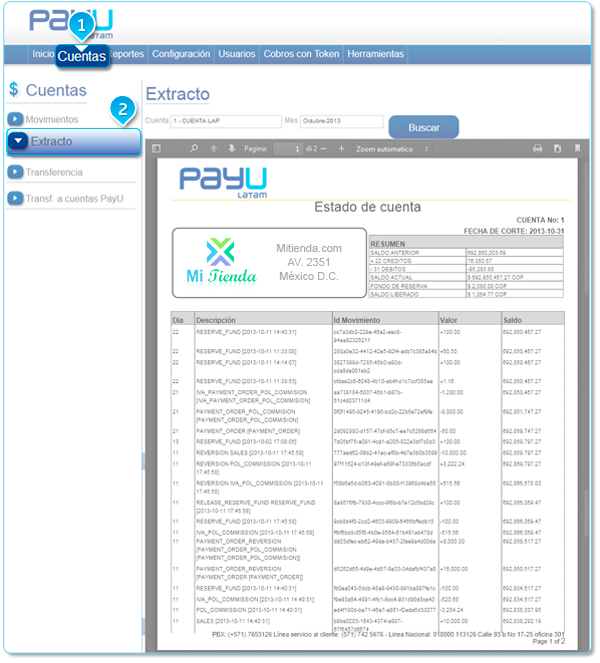
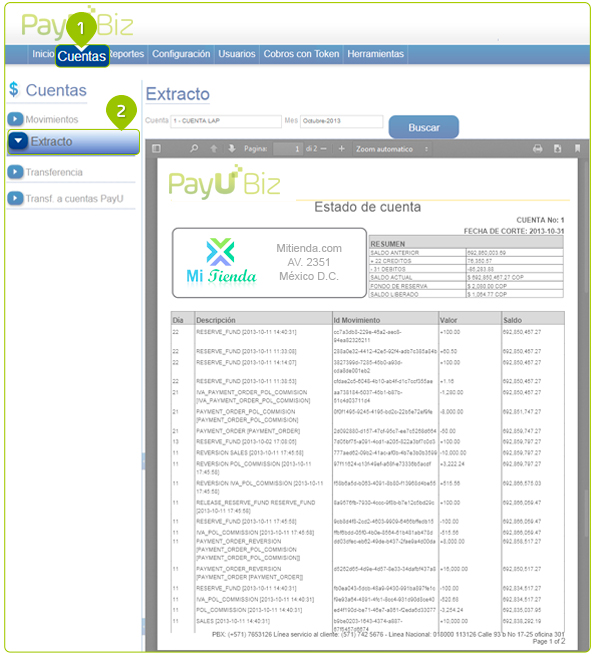
Secure images

Changed region(s): [[0.0, 0.0, 1.0, 0.9955], [0.27, 0.2413, 0.48, 0.3017]]

diff --git a/_es/administrative_module/index.html b/_es/administrative_module/index.html
@@ -15,14 +15,14 @@ subcategory: intro
 <div id="page-menu-column2">
 &nbsp;<br>
 <span class="subtitle-page">Introducción</span>
-<p>El módulo administrativo es el sistema con el que puedes gestionar de forma segura tu cuenta Pay<span style="color: #009cdd;">U</span> Latam, puedes cambiar tu clave, obtener el reporte de las ventas realizadas, encontrar los datos necesarios para integrar tu página web con nuestra plataforma, usar herramientas para recibir pagos incluso si no tienes página web o transferir dinero a tu cuenta bancaria.</p>
-<div class="note4">Para hacer uso del Módulo Administrativo debes ir a <a href="http://www.payulatam.com/" target="_blank">www.payulatam.com</a>. En la parte superior encontrarás la opción <span class="highlight-txt2">“Ingresa a tu cuenta”</span>, allí podrás introducir tu respectivo usuario y contraseña, los cuales son suministrados vía e-mail en el momento de la creación de tu cuenta en Pay<span style="color: #009cdd;">U</span> Latam.</div>
-<div class="note5">¿Aún no tienes una cuenta en Pay<span style="color: #009cdd;">U</span> Latam? Puedes abrir tu cuenta <a href="https://secure.payulatam.com/online_account/create_account.zul" target="_blank">aquí</a>.</div>
-<img src="{{ site.baseurl }}/images/2014/07/secure1b.jpg" alt="Módulo administrativo" width="650" height="232" class="aligncenter size-full wp-image-619" />
+<p>El módulo administrativo es el sistema con el que puedes gestionar de forma segura tu cuenta PayU, puedes cambiar tu clave, obtener el reporte de las ventas realizadas, encontrar los datos necesarios para integrar tu página web con nuestra plataforma, usar herramientas para recibir pagos incluso si no tienes página web o transferir dinero a tu cuenta bancaria.</p>
+<div class="note4">Para hacer uso del Módulo Administrativo debes ir a <a href="http://www.payu.com/" target="_blank">www.payu.com</a>. En la parte superior encontrarás la opción <span class="highlight-txt2">“Ingresa a tu cuenta”</span>, allí podrás introducir tu respectivo usuario y contraseña, los cuales son suministrados vía e-mail en el momento de la creación de tu cuenta en PayU.</div>
+<div class="note5">¿Aún no tienes una cuenta en PayU? Puedes abrir tu cuenta <a href="https://secure.payulatam.com/online_account/create_account.zul" target="_blank">aquí</a>.</div>
+<p align="center"><img src="/images/soluciones-adicionales/secure1-es.jpg" alt="Módulo administrativo" border="0"></p>
 &nbsp;<br>
-<div class="grey-box">Nota: Si olvidaste tu contraseña, debes dar clic en la opción <b>"Olvidé mi clave”</b> e ingresar el correo electrónico con el cual creaste tu cuenta en Pay<span style="color: #009cdd;">U</span> Latam. El sistema automáticamente enviará a tu correo electrónico un mensaje y el enlace para la activación de tu nueva contraseña.</div>
+<div class="grey-box">Nota: Si olvidaste tu contraseña, debes dar clic en la opción <b>"Olvidé mi clave”</b> e ingresar el correo electrónico con el cual creaste tu cuenta en PayU. El sistema automáticamente enviará a tu correo electrónico un mensaje y el enlace para la activación de tu nueva contraseña.</div>
 &nbsp;<br>
-<div class="image2"><p>En el Módulo Administrativo de Pay<span style="color: #009cdd;">U</span> Latam puedes:</p>
+<div class="image2"><p>En el Módulo Administrativo de PayU puedes:</p>
 <div class="list-arrow">
 <ul>
 <li>Ver el dinero disponible en tu cuenta PayU y realizar la transferencia a tu cuenta bancaria.</li>

diff --git a/_pt/administrative_module/index.html b/_pt/administrative_module/index.html
@@ -15,14 +15,14 @@ subcategory: intro
 <div id="page-menu-column2">
 &nbsp;<br>
 <span class="subtitle-page">Introdução</span>
-<p>O módulo administrativo é o sistema com o qual você pode gerenciar de forma segura sua conta na PayU Latam, você pode mudar sua senha, obter relatórios das vendas realizadas, encontrar os dados necessários para integrar sua página web com nossa plataforma, usar ferramentas para receber pagamentos inclusive se você não tem página web ou até mesmo transferir dinheiro para sua conta bancária.</p>
-<div class="note4">Para usar o Módulo Administrativo você deve acessar <a href="http://www.payulatam.com/" target="_blank">www.payulatam.com</a>. Na parte superior, você encontrará a opção <span class="highlight-txt2">“Entre na sua conta”</span>, podendo colocar seu usuário e senha, os quais serão disponibilizados por e-mail no momento da criação da conta na PayU.</div>
+<p>O módulo administrativo é o sistema com o qual você pode gerenciar de forma segura sua conta na PayU, você pode mudar sua senha, obter relatórios das vendas realizadas, encontrar os dados necessários para integrar sua página web com nossa plataforma, usar ferramentas para receber pagamentos inclusive se você não tem página web ou até mesmo transferir dinheiro para sua conta bancária.</p>
+<div class="note4">Para usar o Módulo Administrativo você deve acessar <a href="http://www.payu.com/" target="_blank">www.payu.com</a>. Na parte superior, você encontrará a opção <span class="highlight-txt2">“Entre na sua conta”</span>, podendo colocar seu usuário e senha, os quais serão disponibilizados por e-mail no momento da criação da conta na PayU.</div>
 <div class="note5">Você ainda não tem uma conta na PayU? Você pode abrir sua conta <a href="https://secure.payulatam.com/online_account/create_account.zul" target="_blank">aqui</a>.</div>
-<p align="center"><img src="/images/soluciones-adicionales/secure1-pt.jpg" alt="Solicitação de pagamento" border="0"></p>
+<p align="center"><img src="/images/soluciones-adicionales/secure1-pt.jpg" alt="Modulo administrativo" border="0"></p>
 &nbsp;<br>
 <div class="grey-box">Nota: Se você esqueceu sua senha, você deve clicar na opção <b>"Esqueci minha senha”</b> e acessar o e-mail com o qual você criou a conta na PayU.  O sistema automaticamente enviará um e-mail com a nova senha gerada e um link de ativação.</div>
 &nbsp;<br>
-<div class="image2"><p>No Módulo Administrativo da Payu, você pode:</p>
+<div class="image2"><p>No Módulo Administrativo da PayU, você pode:</p>
 <div class="list-arrow">
 <ul>
 <li>Ver o dinheiro disponível em sua conta PayU e realizar a transferência para a sua conta bancária.</li>

diff --git a/_en/administrative_module/index.html b/_en/administrative_module/index.html
@@ -15,10 +15,10 @@ subcategory: intro
 <div id="page-menu-column2">
 &nbsp;<br>
 <span class="subtitle-page">Introduction</span>
-<p>The administrative module is the system with which you can securely manage your PayU Latam account. With it, you can change your password, obtain the sales reports, find the data needed to integrate your website with our platform, use tools to receive payments even if you do not have a website, or even transfer money to your bank account.</p>
-<div class="note4">To use the Administrative Module go <a href="http://www.payulatam.com/" target="_blank">www.payulatam.com</a>. At the top, you will find the <span class="highlight-txt2">“Login to Your Account”</span>, field. There you can enter your respective username and password, which will have been supplied via email at the time of creation of your PayU account.</div>
+<p>The administrative module is the system with which you can securely manage your PayU account. With it, you can change your password, obtain the sales reports, find the data needed to integrate your website with our platform, use tools to receive payments even if you do not have a website, or even transfer money to your bank account.</p>
+<div class="note4">To use the Administrative Module go <a href="http://www.payu.com/" target="_blank">www.payu.com</a>. At the top, you will find the <span class="highlight-txt2">“Login to Your Account”</span>, field. There you can enter your respective username and password, which will have been supplied via email at the time of creation of your PayU account.</div>
 <div class="note5">You still do not have a PayU account?  You can create yours <a href="https://secure.payulatam.com/online_account/create_account.zul" target="_blank">here</a>.</div>
-<p align="center"><img src="/images/soluciones-adicionales/secure1-en.jpg" alt="Payment request" border="0"></p>
+<p align="center"><img src="/images/soluciones-adicionales/secure1-en.jpg" alt="Administrative module" border="0"></p>
 &nbsp;<br>
 <div class="grey-box">Note : If you have forgotten your password, you can click on the <b>"Forgot My Password”</b> option and enter the email with which you created your PayU account. The system will automatically send you an email with a new generated password and an activation link. Please be sure to activate the password before using it to enter the account.</div>
 &nbsp;<br>

diff --git a/css/style.css b/css/style.css
@@ -1670,6 +1670,23 @@ a:hover.payu-btn-green {
   -o-border-radius: 10px;
   color: #262626;
 }
+.note4 {
+    position: relative;
+    float: left;
+    width: 60%;
+    margin-bottom: 15px;
+}
+.note5 {
+  background: none repeat scroll 0% 0% #ededed;
+  border: 1px solid #c5c5c5;
+  border-radius: 5px;
+  box-shadow: 0px 1px 1px rgba(156, 165, 181, 0.3);
+  padding: 10px 8px;
+  position: relative;
+  width: 35%;
+  float: right;
+  color: #262626;
+}
 .simple-box{
     display: block;
     margin: 40px 0;

diff --git a/css/styles.css b/css/styles.css
@@ -17485,7 +17485,7 @@ body #section-feature .row .region {
     display: block;
     overflow: hidden;
 }
-.note4 {
+/*.note4 {
     position: relative;
     float: left;
     width: 60%;
@@ -17502,7 +17502,7 @@ body #section-feature .row .region {
     float: right;
     color: #1C3F95;
 }
-/*.highlight-txt {
+.highlight-txt {
     background: none repeat scroll 0 0 #c4eeff;
     border-radius: 8px 8px 8px 8px;
     font-weight: normal !important;
